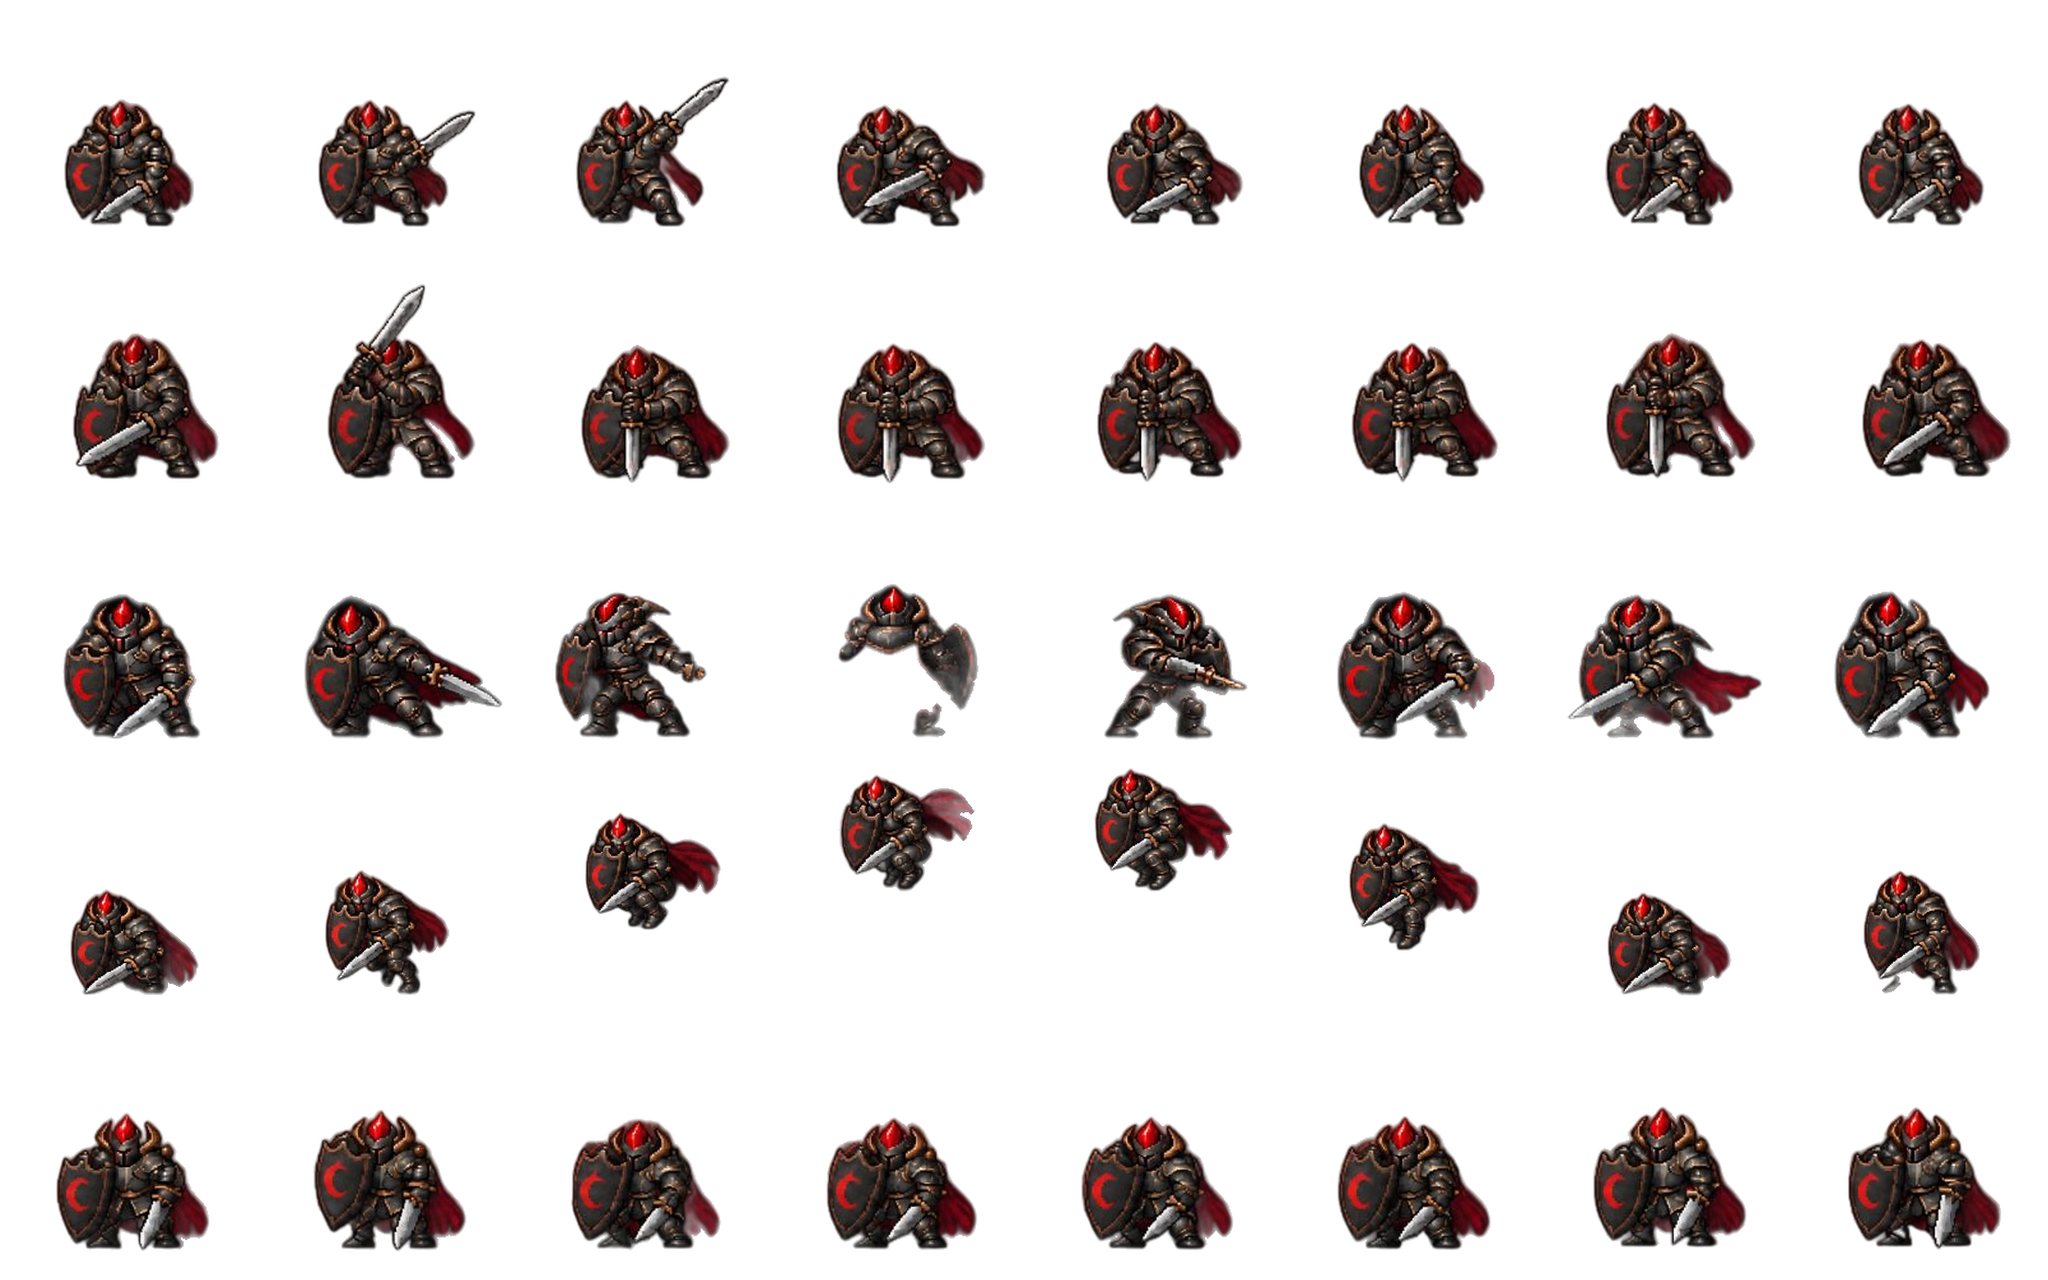
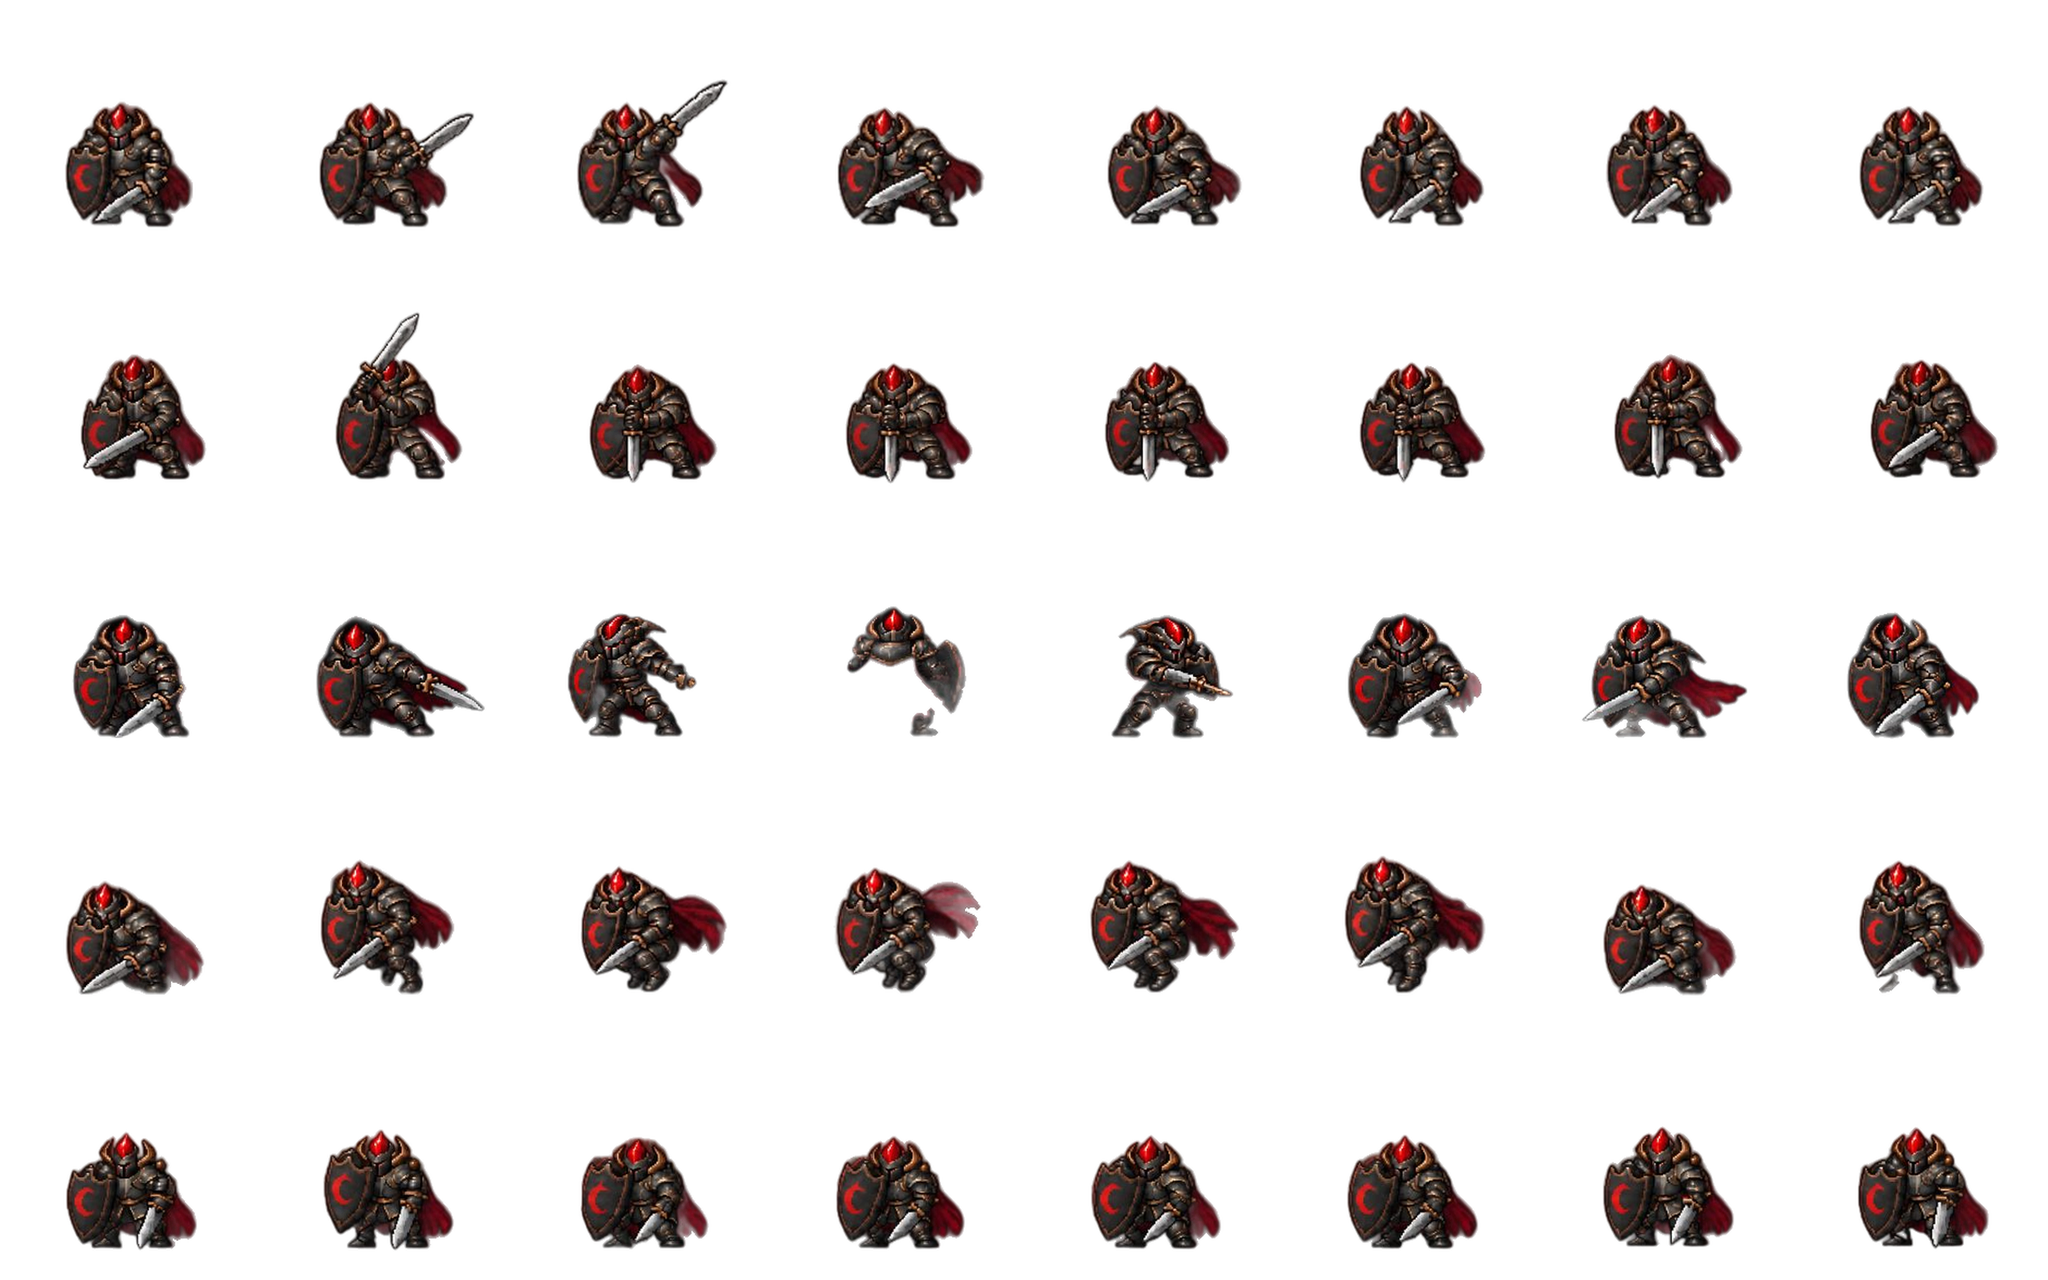
몬스터별 그림 크기 통일, 골렘 돌진·내려찍기 8방향
- 몬스터마다 모든 줄의 캐릭터 크기를 같게 맞춤 (몸 면적 기준, 보스는 지용 시트 대기 자세 크기)
- 수문장 대기·걷기 줄이 다른 줄보다 커 보이던 것 수정
- 기사 뒤로 도약: 공중 칸이 칸 위로 잘리지 않게 발을 바닥에 맞춤 (높이는 코드가 띄움)
- 골렘 돌진·내려찍기 앞/뒤/대각선 그림 추가: 용사 방향에 맞춰 8방향

Claude-Session: https://claude.ai/code/session_0165KCZiTW15XWZKgdSkdzEy

diff --git a/core/src/main/java/com/yongsa/enemy/PatternArt.java b/core/src/main/java/com/yongsa/enemy/PatternArt.java
@@ -165,23 +165,23 @@ public class PatternArt {
             case CAST_TELEGRAPH:
             case SLAM_TELEGRAPH:
                 if (row == null) break;
-                return cell(s, row, four);
+                return bcell(m, s, row, four);
             case CHARGE_TELEGRAPH:
-                if (s.row.containsKey("rush")) return cell(s, s.row.get("rush"), Math.min(1, (int) (pr * 2)));
+                if (s.row.containsKey("rush")) return bcell(m, s, s.row.get("rush"), Math.min(1, (int) (pr * 2)));
                 break;
             case CHARGING:
-                if (s.row.containsKey("rush")) return cell(s, s.row.get("rush"), 2 + ((int) (time * 12)) % 4);
+                if (s.row.containsKey("rush")) return bcell(m, s, s.row.get("rush"), 2 + ((int) (time * 12)) % 4);
                 break;
             case STUNNED:
-                if (s.row.containsKey("stun")) return cell(s, s.row.get("stun"), 2 + ((int) (time * 6)) % 6);
+                if (s.row.containsKey("stun")) return bcell(m, s, s.row.get("stun"), 2 + ((int) (time * 6)) % 6);
                 break;
             case LEAP:
-                if (s.row.containsKey("leap")) return cell(s, s.row.get("leap"), eight);
+                if (s.row.containsKey("leap")) return bcell(m, s, s.row.get("leap"), eight);
                 break;
             case CHANNEL:
                 if (row != null) {
-                    if ("spearstand".equals(m.channelKind)) return cell(s, row, 3 + ((int) (time * 6)) % 3);
-                    return cell(s, row, 2 + ((int) (time * 10)) % 4);
+                    if ("spearstand".equals(m.channelKind)) return bcell(m, s, row, 3 + ((int) (time * 6)) % 3);
+                    return bcell(m, s, row, 2 + ((int) (time * 10)) % 4);
                 }
                 break;
             case RECOVER: {
@@ -203,7 +203,7 @@ public class PatternArt {
                 }
                 if (t.recRow != null && s.row.containsKey(t.recRow)) {
                     int r = s.row.get(t.recRow);
-                    return cell(s, r, t.recFull ? eight : 4 + four);
+                    return bcell(m, s, r, t.recFull ? eight : 4 + four);
                 }
                 break;
             }
@@ -212,12 +212,41 @@ public class PatternArt {
         }
         if (s == WARDEN) {
             // 수문장 기본 동작: 걷기·대기, 기본 근접 공격은 유도 마탄 줄의 팔 뻗기로
-            if (m.state == Monster.State.TELEGRAPH || m.state == Monster.State.COMBO_TELEGRAPH) return cell(s, 2, four);
-            if (m.state == Monster.State.RECOVER) return cell(s, 2, 4 + four);
-            if (moved) return cell(s, 0, 4 + ((int) (t.moveT * 7)) % 4);
-            return cell(s, 0, ((int) (time * 5.5f)) % 4);
+            if (m.state == Monster.State.TELEGRAPH || m.state == Monster.State.COMBO_TELEGRAPH) return bcell(m, s, 2, four);
+            if (m.state == Monster.State.RECOVER) return bcell(m, s, 2, 4 + four);
+            if (moved) return bcell(m, s, 0, 4 + ((int) (t.moveT * 7)) % 4);
+            return bcell(m, s, 0, ((int) (time * 5.5f)) % 4);
         }
         return null;
+    }
+
+    /** 골렘 돌진·내려찍기의 앞·뒤·대각선 그림 (8줄: 내려찍기 앞/앞대각/뒤/뒤대각, 돌진 앞/앞대각/뒤/뒤대각). */
+    private static final String GOLEM_DIR = "team/noggim/boss_golem_dir.png";
+
+    /**
+     * 보스 칸. 골렘 돌진·내려찍기는 바라보는 방향(dirX, dirY)에 따라 옆·앞·뒤·대각선 그림을 고른다.
+     * 좌우는 그리는 쪽에서 뒤집으므로 옆 2 + 앞 + 뒤 + 대각선 4 = 8방향이 된다.
+     */
+    private TextureRegion bcell(Monster m, PatSheet s, int row, int col) {
+        if (s == GOLEM && (row == 0 || row == 1) && has(GOLEM_DIR)) {
+            int view = view(m.dirX, m.dirY);
+            if (view >= 0) {
+                int base = row == 1 ? 0 : 4; // 내려찍기 0~3줄, 돌진 4~7줄
+                return art.cell(GOLEM_DIR, 8, 8, (base + view) * 8 + MathUtils.clamp(col, 0, 7));
+            }
+        }
+        return cell(s, row, col);
+    }
+
+    /** 바라보는 방향 → -1 옆, 0 앞(아래), 1 앞 대각선, 2 뒤(위), 3 뒤 대각선. y 는 위가 +. */
+    static int view(float dx, float dy) {
+        float l = (float) Math.sqrt(dx * dx + dy * dy);
+        if (l < 0.01f) return -1;
+        float ax = Math.abs(dx) / l, ay = dy / l;
+        if (Math.abs(ay) < 0.38f) return -1;          // 옆 (가로 ±22도)
+        boolean down = ay < 0;
+        if (ax < 0.38f) return down ? 0 : 2;          // 바로 아래 / 바로 위
+        return down ? 1 : 3;                           // 대각선
     }
 
     private TextureRegion cell(PatSheet s, int row, int col) {

diff --git a/assets/team/noggim/README.md b/assets/team/noggim/README.md
@@ -17,6 +17,21 @@
 | `boss_lich2_patterns.png` (마왕 2페) | 0 촉수 · 1 심연의 눈 |
 | `boss_warden_patterns.png` | 0 대기(앞 4칸)·걷기(뒤 4칸) · 1 번개 감옥 · 2 유도 마탄 · 3 불꽃 회전 · 4 소환 |
 
+### 골렘 8방향 (`boss_golem_dir.png`, 8줄)
+
+돌진과 내려찍기는 용사가 위·아래·대각선에 있으면 그쪽을 보는 그림을 씁니다. 좌우는 뒤집어서 8방향이 됩니다.
+
+| 줄 | 0 | 1 | 2 | 3 | 4 | 5 | 6 | 7 |
+|---|---|---|---|---|---|---|---|---|
+| 동작 | 내려찍기 앞 | 내려찍기 앞 대각선 | 내려찍기 뒤 | 내려찍기 뒤 대각선 | 돌진 앞 | 돌진 앞 대각선 | 돌진 뒤 | 돌진 뒤 대각선 |
+
+마법·투사체를 쏘는 패턴은 몸이 옆을 봐도 효과가 날아가는 방향(360도)으로 돌아가므로 따로 그리지 않았습니다.
+
+## 크기
+
+몬스터마다 모든 줄의 캐릭터 크기가 같습니다. 몸이 차지하는 면적으로 재서 맞췄습니다.
+보스는 지용 시트의 대기 자세 크기, 수문장은 유도 마탄 줄 크기, 일반 몹은 대기 줄 크기에 맞췄습니다.
+
 ## 일반 몹 시트
 
 | 파일 | 줄 |
